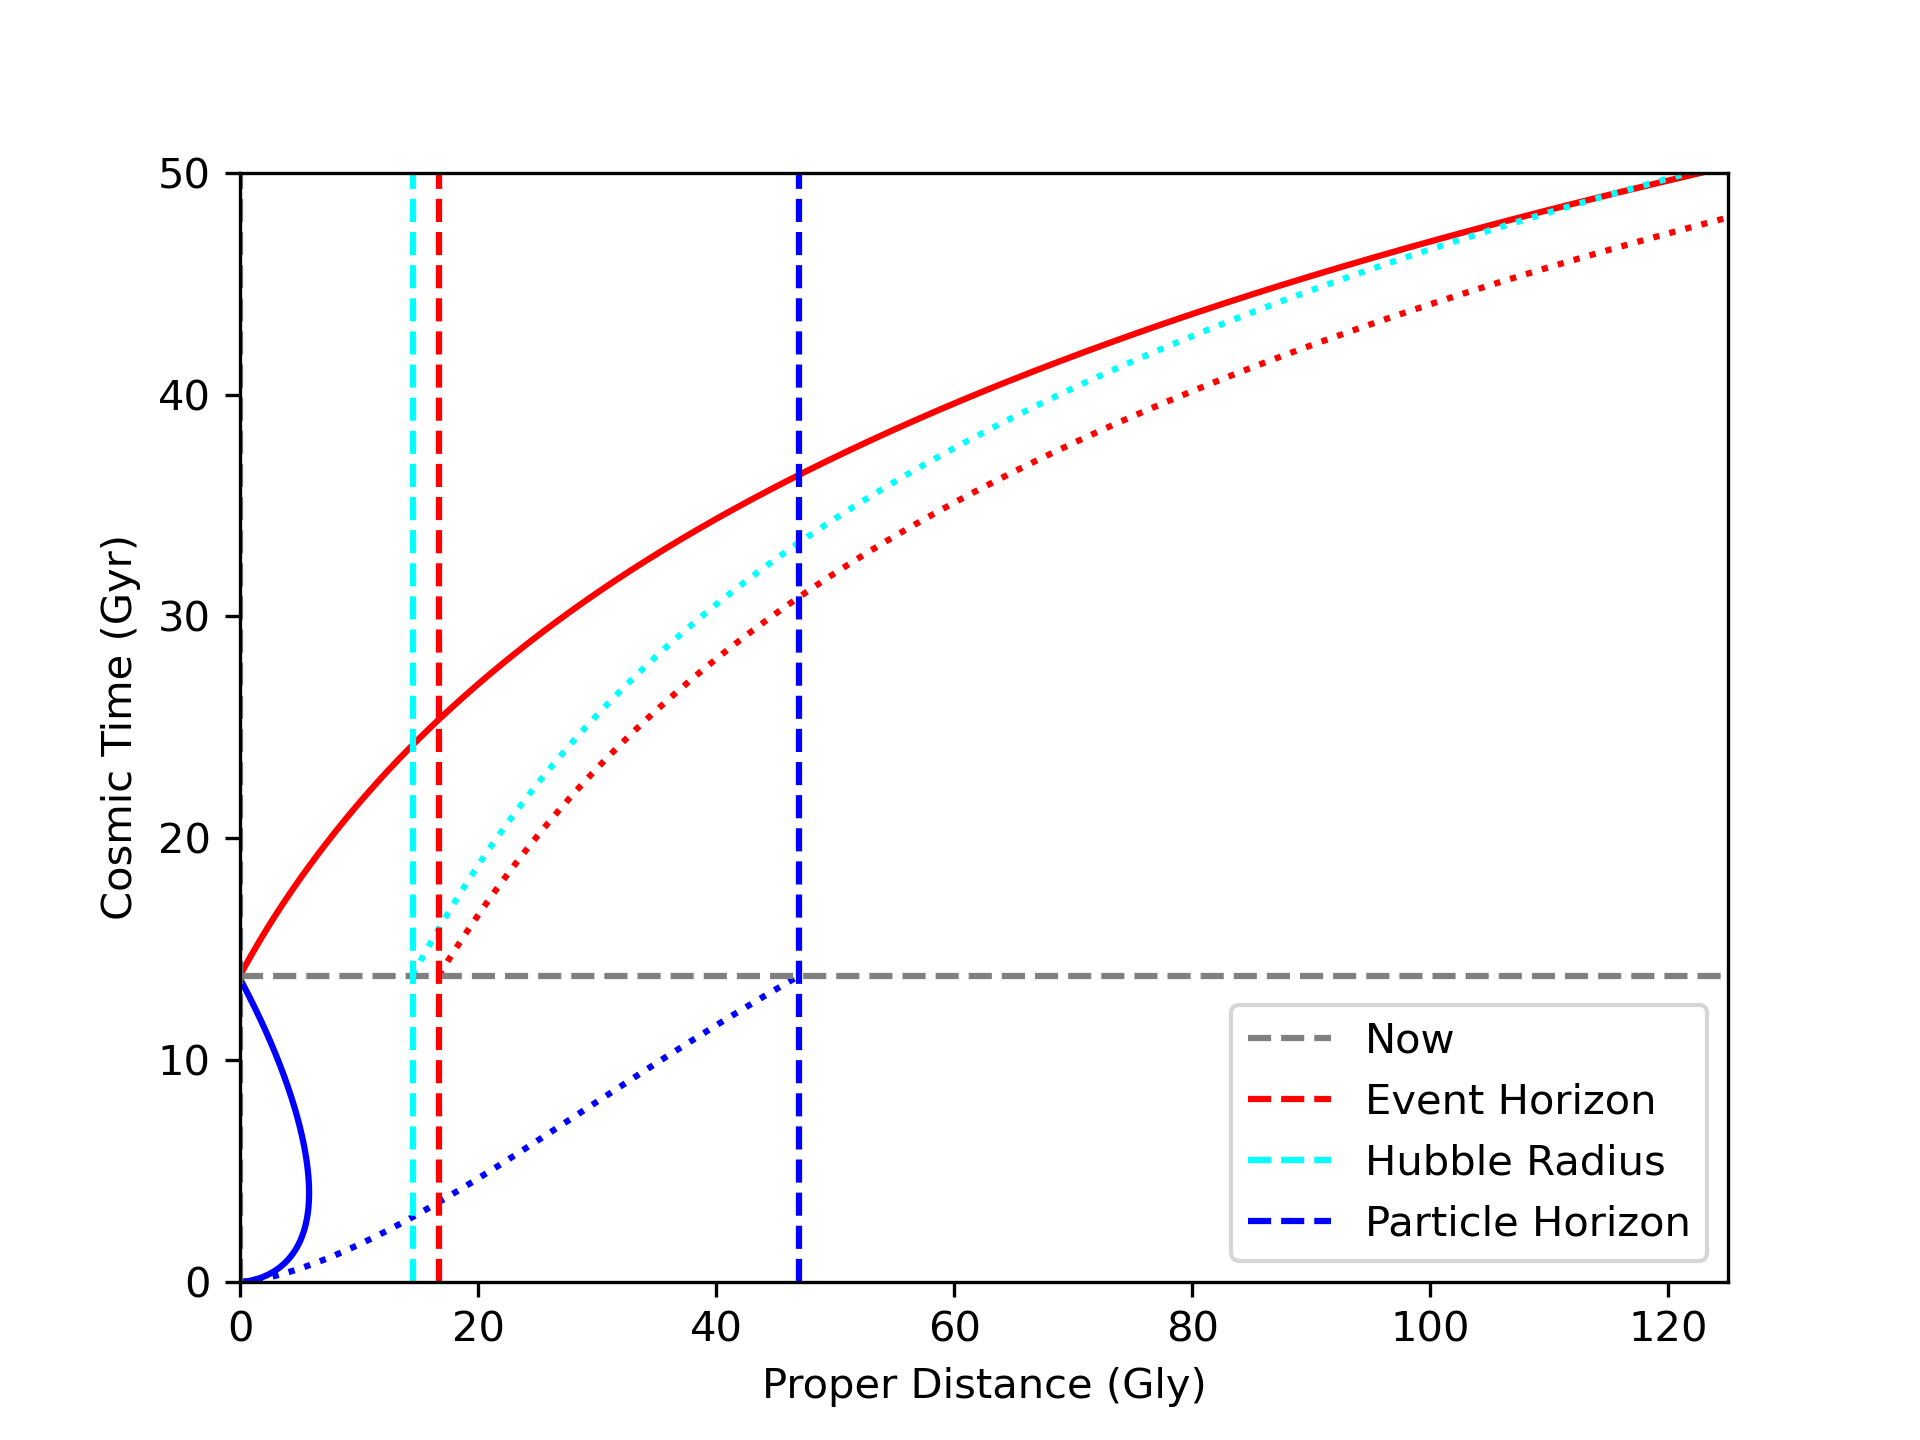
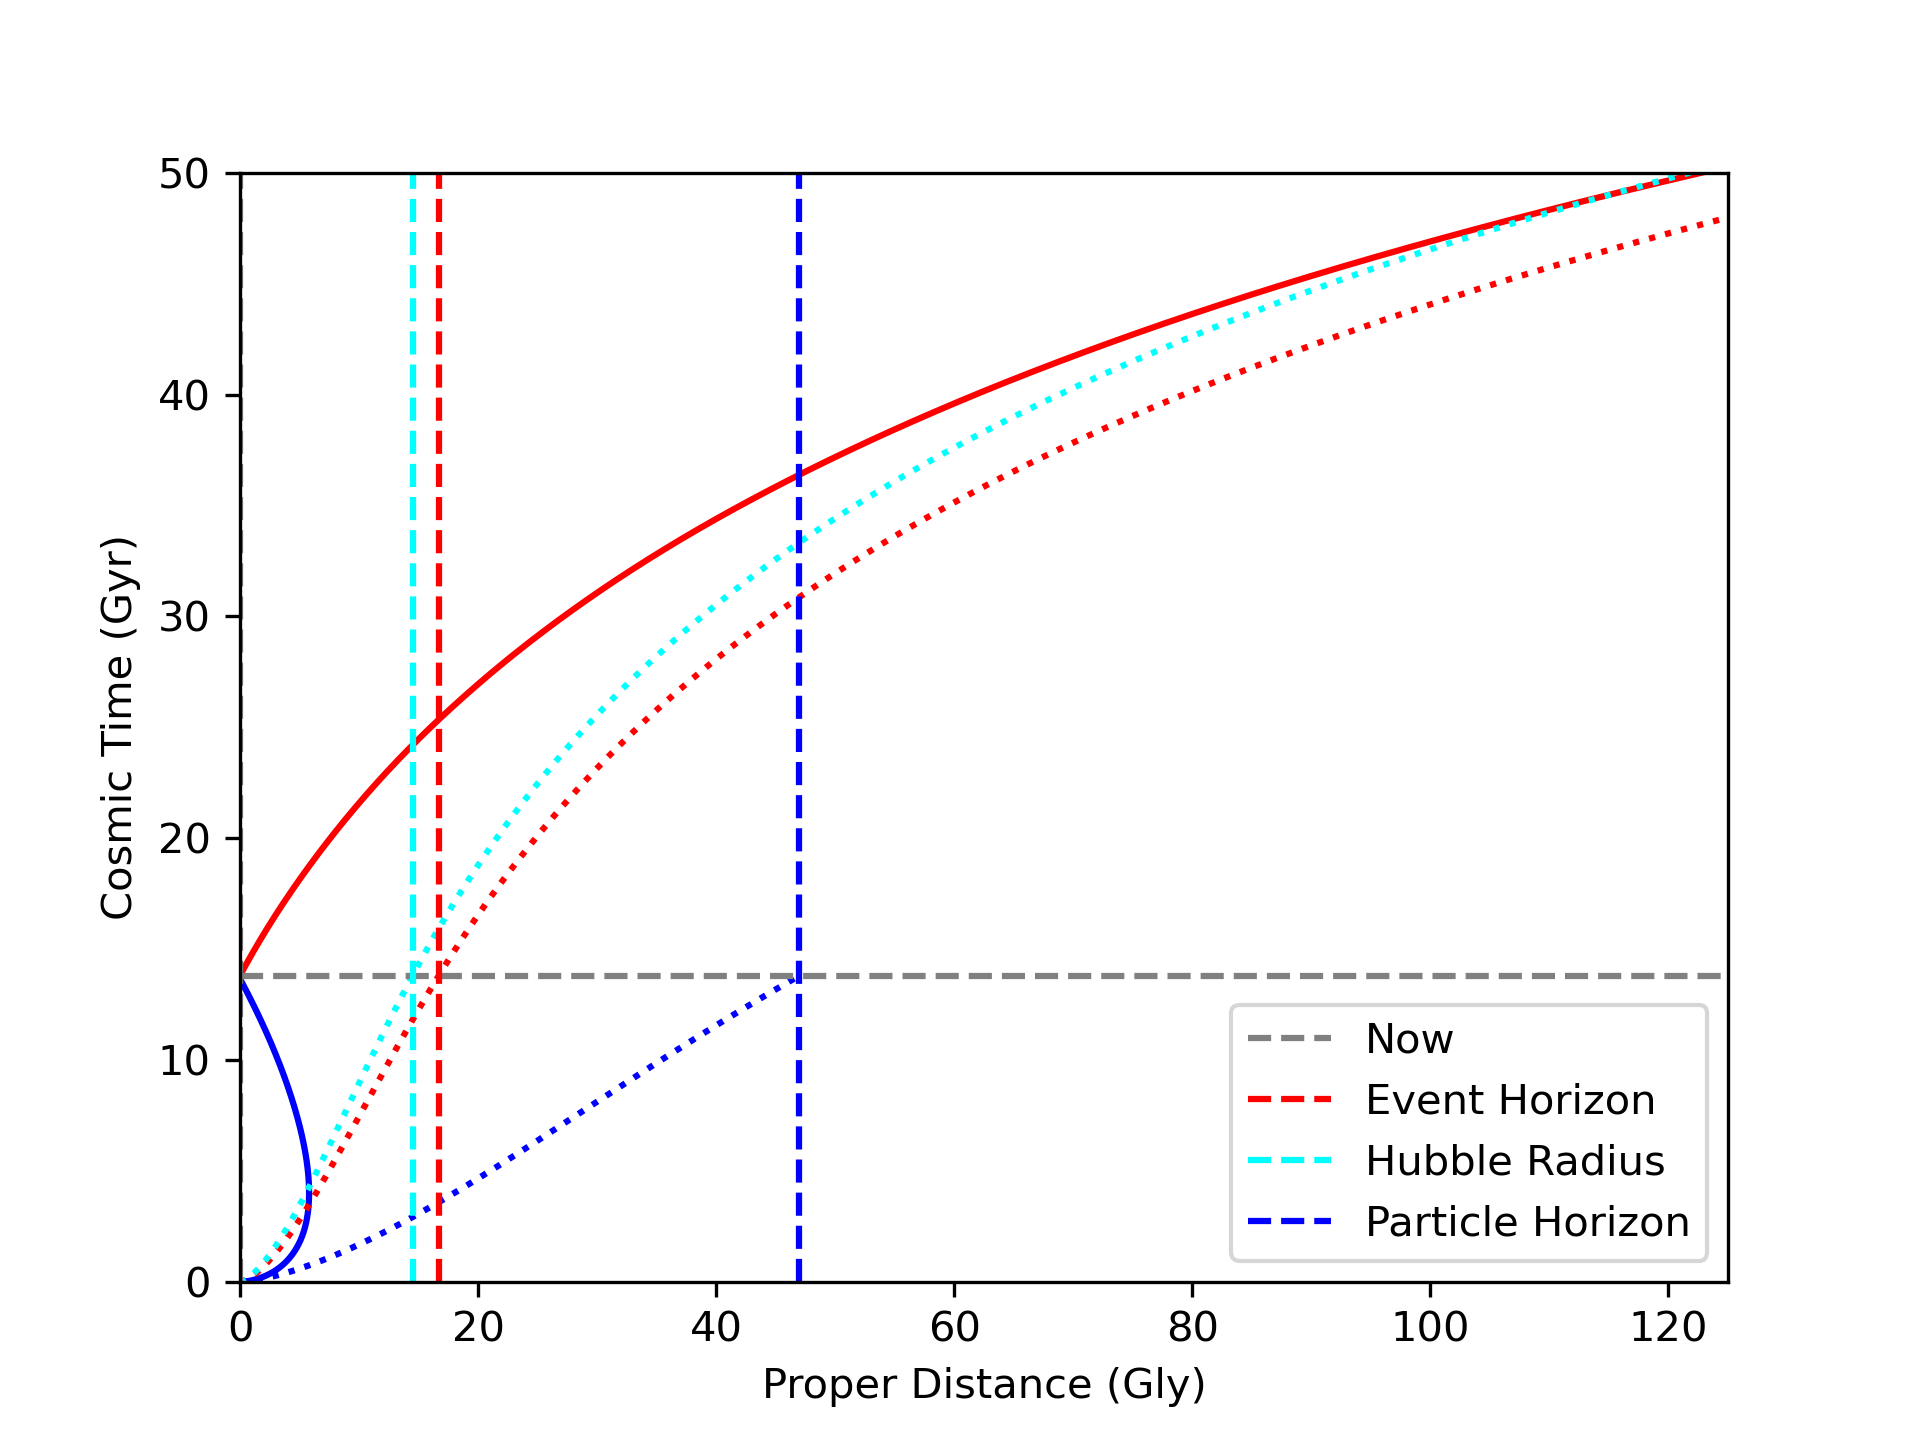
separate the source and photon

diff --git a/Cosmic_Horizon.py b/Cosmic_Horizon.py
@@ -5,7 +5,7 @@
 # cosmoloy, namely the "Particle horizon", the "Event horizon" and 
 # the "Hubble radius".
 
-# This code is mainly based on 
+# This code mainly based on 
 # https://physics.stackexchange.com/questions/70339/a-cosmological-horizon-at-the-hubble-radius
 # which provides a clear and short description on this topic.
 # Of course, these concepts should be found in any cosmology textbook.
@@ -14,8 +14,6 @@
 # julius52700@gapp.nthu.edu.tw
 
 #====================#
-
-
 
 import numpy as np
 import matplotlib.pyplot as plt
@@ -30,7 +28,7 @@ rho_c = 7.64e-10 # J/m^3
 H0 = 67.3e3/Mpc2m # Hubble Constant at a=1
 Omega_M = 0.315 # Mass density
 Omega_L = 0.685 # Dark energy density
-Omega_R = 4.17e-14/rho_c
+Omega_R = 4.17e-14/rho_c # Radiation density
 
 fig, ax = plt.subplots()
 
@@ -39,28 +37,31 @@ fig, ax = plt.subplots()
 class Photon:
 
     def __init__(self, 
-                 amin, # scale factor at emssion 
+                 a_launch, # scale factor at emssion 
                  amax, # scale factor at receiving 
                  d_source, # The distance of the photon source in comoving distance
                  ray_direction # +1 for travel outward, -1 for inward
                  ):
-        Result = self.Dc(amin, amax, d_source, ray_direction)
-        self.a = Result[0]
-        self.t = Result[2]
-        self.photon = Result[1]
-        self.source = Result[3]
+        Result = self.Dc(a_launch, amax, d_source, ray_direction)
+        self.a_photon = Result[0]
+        self.t_photon = Result[1]
+        self.d_photon = Result[2]
+        self.a_source = Result[3]
+        self.t_source = Result[4]
+        self.d_source = Result[5]
         return
 
     def Dc(self,
-           amin, # scale factor at emssion 
+           a_launch, # The scale factor of when photon was launched
            amax, # scale factor at receiving 
-           d_source, # The distance of the photon source in comoving distance
+           d_source, # The comoving distance of the photon source  
            ray_direction, # +1 for travel outward, -1 for inward
+           amin=1e-30, # scale factor at emssion 
            N = int(1e3) # Sample points
            ):
         
-        a = np.linspace(amin, amax, N)
-        
+        a_source = np.linspace(amin, amax, N)
+        a_photon = np.linspace(a_launch, amax, N)
         # The comoving distance photon travels
         def Hubble_Parameter(a):
             return H0*np.sqrt(Omega_R*a**-4 + Omega_M*a**-3 + Omega_L*a**0)
@@ -68,47 +69,58 @@ class Photon:
         def Cov_Dis(a, d): 
             H = Hubble_Parameter(a) # Hubble Parameter
             return c/(a**2*H)*ray_direction
-        D = solve_ivp(fun=Cov_Dis, 
-                      t_span=(amin, amax),
-                      t_eval=a,
-                      y0=[d_source])
         
         # Cosmic time
         def cosmic_time(a, t):
             H = Hubble_Parameter(a) # Hubble Parameter
             return 1/(a*H)
         
+        photon = solve_ivp( fun=Cov_Dis, 
+                            t_span=(a_launch, amax),
+                            t_eval=a_photon,
+                            y0=[d_source])
+        
         # To avoid a=0 at the beginning of the universe, 
         # we start from current universe to work out t(a)
-        tmin = solve_ivp(fun=cosmic_time, 
-                         t_span=(1, amin),
-                         y0=[138e8*yr2s])
+        tmin = solve_ivp(   fun=cosmic_time, 
+                            t_span=(1, amin),
+                            y0=[138e8*yr2s]).y[0][-1]
         
-        T = solve_ivp(fun=cosmic_time, 
-                      t_span=(amin, amax),
-                      t_eval=a,
-                      y0=[tmin.y[0][-1]])
+        t_launch = solve_ivp(   fun=cosmic_time, 
+                                t_span=(1, a_launch),
+                                y0=[138e8*yr2s]).y[0][-1]
         
-        a = D.t                 # scale factor
-        d = a*D.y[0]            # Proper distance of photon in MKS
-        t = T.y[0]              # Cosmic time in s
-        source = a*d_source     # Proper distance of source in MKS
-        return [a, d, t, source]
+        source_t = solve_ivp(   fun=cosmic_time, 
+                                t_span=(amin, amax),
+                                t_eval=a_source,
+                                y0=[tmin])
+        
+        photon_t = solve_ivp(   fun=cosmic_time, 
+                                t_span=(a_launch, amax),
+                                t_eval=a_photon,
+                                y0=[t_launch])
+
+        
+        t_photon = photon_t.y[0]             # scale factor
+        d_photon = a_photon*photon.y[0] # Proper distance of photon in MKS
+        t_source = source_t.y[0]               # Cosmic time in s
+        d_source = a_source*d_source    # Proper distance of source in MKS
+        return [a_photon, t_photon, d_photon, a_source, t_source, d_source]
 
 # This is particle horizon demo
 ray1 = Photon(1e-50, 1, 47*Gly2m, -1) 
-ax.plot(ray1.photon/Gly2m, ray1.t/yr2s/1e9, linestyle='solid',  color='b') # This is photon
-ax.plot(ray1.source/Gly2m, ray1.t/yr2s/1e9, linestyle='dotted', color='b') # This is source galaxy
+ax.plot(ray1.d_photon/Gly2m, ray1.t_photon/yr2s/1e9, linestyle='solid',  color='b') # This is photon
+ax.plot(ray1.d_source/Gly2m, ray1.t_source/yr2s/1e9, linestyle='dotted', color='b') # This is source galaxy
 
 # This is event horizon demo
 ray2 = Photon(1, 10, 16.7*Gly2m, 1) 
 ray3 = Photon(1, 10, 0, 1) # photon launch by observer
-ax.plot(ray3.photon/Gly2m, ray3.t/yr2s/1e9, linestyle='solid',  color='r') # This is photon
-ax.plot(ray2.source/Gly2m, ray2.t/yr2s/1e9, linestyle='dotted', color='r') # This is source galaxy
+ax.plot(ray3.d_photon/Gly2m, ray3.t_photon/yr2s/1e9, linestyle='solid',  color='r') # This is photon
+ax.plot(ray2.d_source/Gly2m, ray2.t_source/yr2s/1e9, linestyle='dotted', color='r') # This is source galaxy
 
 # This is for hubble radius
 ray4 = Photon(1, 10, 14.5*Gly2m, 1) 
-ax.plot(ray4.source/Gly2m, ray4.t/yr2s/1e9, linestyle='dotted', color='cyan') # This is source galaxy
+ax.plot(ray4.d_source/Gly2m, ray4.t_source/yr2s/1e9, linestyle='dotted', color='cyan') # This is source galaxy
 
 ax.axhline(13.8, 0, 1, linestyle='dashed', color='gray', label='Now') # Current age of the universe
 ax.axvline(0, 0, 1,    linestyle='dashed', color='gray') # World line for observer
